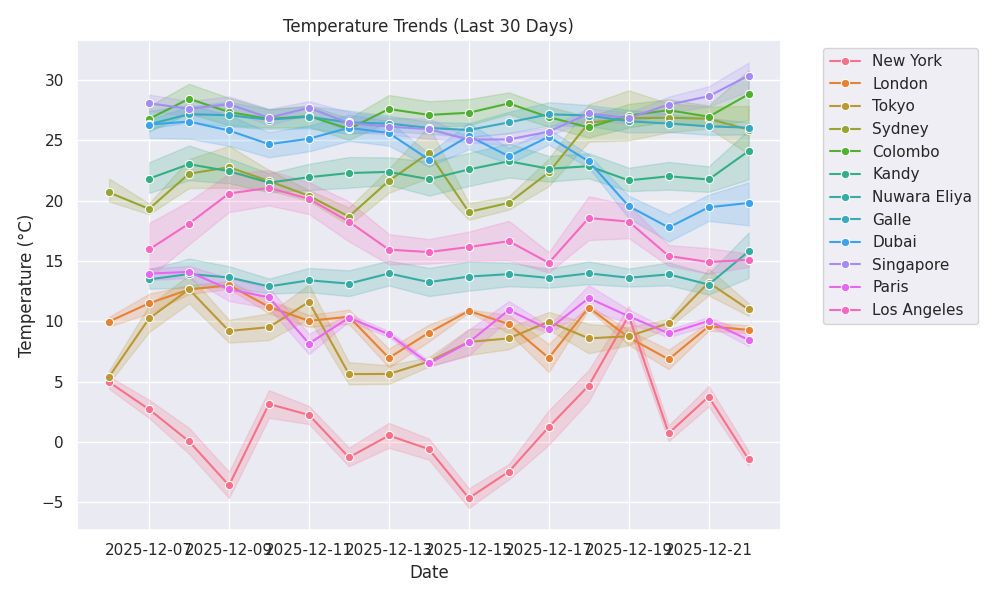
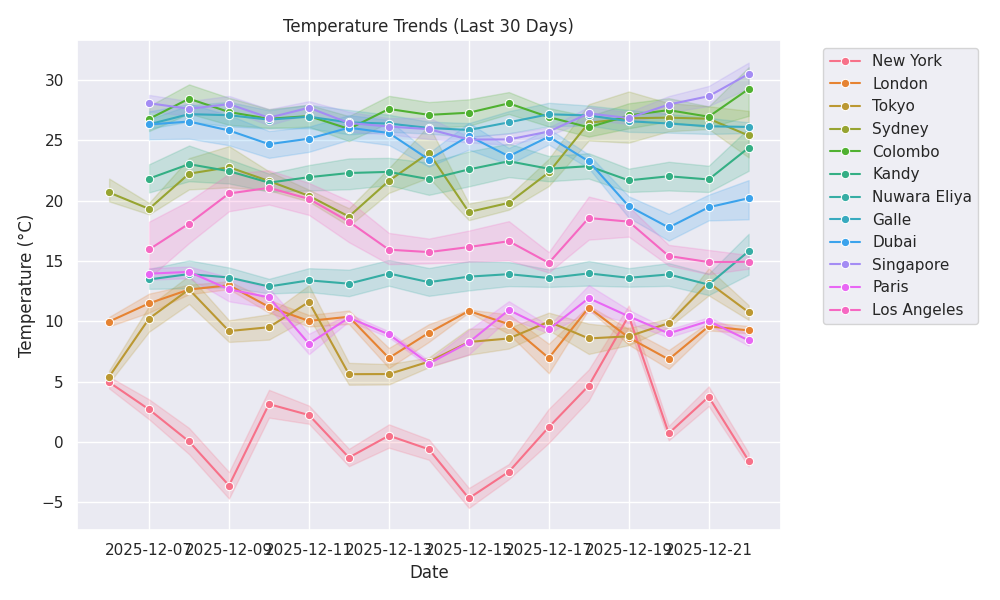
🌦 Weather update: 2025-12-22 09:20

diff --git a/public/index.html b/public/index.html
@@ -11,7 +11,7 @@
     <div class="max-w-6xl mx-auto">
         <header class="mb-8 text-center">
             <h1 class="text-4xl font-bold mb-2">🌍 Global Weather Dashboard</h1>
-            <p class="text-slate-400">Last Updated: 2025-12-22 08:20:34</p>
+            <p class="text-slate-400">Last Updated: 2025-12-22 09:20:44</p>
         </header>
         
         <!-- AI Summary -->
@@ -26,15 +26,15 @@
             <div class="bg-slate-800 p-6 rounded-xl shadow-lg border-t-4 border-blue-500 hover:scale-105 transition-transform">
                 <div class="flex justify-between items-start">
                     <h3 class="text-xl font-bold">Paris</h3>
-                    <span class="text-3xl">☁</span>
+                    <span class="text-3xl">☀</span>
                 </div>
                 <div class="mt-4">
-                    <p class="text-4xl font-bold">7.77°C</p>
-                    <p class="text-slate-400 capitalize">overcast clouds</p>
+                    <p class="text-4xl font-bold">8.18°C</p>
+                    <p class="text-slate-400 capitalize">clear sky</p>
                 </div>
                 <div class="mt-4 text-sm text-slate-500">
                     <p>💧 Humidity: 96%</p>
-                    <p>💨 Wind: 1.54 m/s</p>
+                    <p>💨 Wind: 2.57 m/s</p>
                 </div>
             </div>
             
@@ -44,12 +44,12 @@
                     <span class="text-3xl">☁</span>
                 </div>
                 <div class="mt-4">
-                    <p class="text-4xl font-bold">8.96°C</p>
-                    <p class="text-slate-400 capitalize">broken clouds</p>
+                    <p class="text-4xl font-bold">9.02°C</p>
+                    <p class="text-slate-400 capitalize">overcast clouds</p>
                 </div>
                 <div class="mt-4 text-sm text-slate-500">
                     <p>💧 Humidity: 94%</p>
-                    <p>💨 Wind: 3.6 m/s</p>
+                    <p>💨 Wind: 3.09 m/s</p>
                 </div>
             </div>
             
@@ -59,12 +59,12 @@
                     <span class="text-3xl">☁</span>
                 </div>
                 <div class="mt-4">
-                    <p class="text-4xl font-bold">22.51°C</p>
+                    <p class="text-4xl font-bold">21.95°C</p>
                     <p class="text-slate-400 capitalize">overcast clouds</p>
                 </div>
                 <div class="mt-4 text-sm text-slate-500">
-                    <p>💧 Humidity: 65%</p>
-                    <p>💨 Wind: 7.2 m/s</p>
+                    <p>💧 Humidity: 67%</p>
+                    <p>💨 Wind: 5.66 m/s</p>
                 </div>
             </div>
             
@@ -79,7 +79,7 @@
                 </div>
                 <div class="mt-4 text-sm text-slate-500">
                     <p>💧 Humidity: 60%</p>
-                    <p>💨 Wind: 7.72 m/s</p>
+                    <p>💨 Wind: 7.2 m/s</p>
                 </div>
             </div>
             
@@ -104,12 +104,12 @@
                     <span class="text-3xl">☁</span>
                 </div>
                 <div class="mt-4">
-                    <p class="text-4xl font-bold">17.03°C</p>
+                    <p class="text-4xl font-bold">15.94°C</p>
                     <p class="text-slate-400 capitalize">broken clouds</p>
                 </div>
                 <div class="mt-4 text-sm text-slate-500">
-                    <p>💧 Humidity: 76%</p>
-                    <p>💨 Wind: 2.11 m/s</p>
+                    <p>💧 Humidity: 83%</p>
+                    <p>💨 Wind: 1.93 m/s</p>
                 </div>
             </div>
             
@@ -119,12 +119,12 @@
                     <span class="text-3xl">☁</span>
                 </div>
                 <div class="mt-4">
-                    <p class="text-4xl font-bold">26.1°C</p>
+                    <p class="text-4xl font-bold">26.52°C</p>
                     <p class="text-slate-400 capitalize">overcast clouds</p>
                 </div>
                 <div class="mt-4 text-sm text-slate-500">
-                    <p>💧 Humidity: 85%</p>
-                    <p>💨 Wind: 2.61 m/s</p>
+                    <p>💧 Humidity: 82%</p>
+                    <p>💨 Wind: 2.41 m/s</p>
                 </div>
             </div>
             
@@ -134,12 +134,12 @@
                     <span class="text-3xl">☁</span>
                 </div>
                 <div class="mt-4">
-                    <p class="text-4xl font-bold">26.67°C</p>
+                    <p class="text-4xl font-bold">26.24°C</p>
                     <p class="text-slate-400 capitalize">overcast clouds</p>
                 </div>
                 <div class="mt-4 text-sm text-slate-500">
-                    <p>💧 Humidity: 64%</p>
-                    <p>💨 Wind: 2.87 m/s</p>
+                    <p>💧 Humidity: 66%</p>
+                    <p>💨 Wind: 3.01 m/s</p>
                 </div>
             </div>
             
@@ -153,8 +153,8 @@
                     <p class="text-slate-400 capitalize">overcast clouds</p>
                 </div>
                 <div class="mt-4 text-sm text-slate-500">
-                    <p>💧 Humidity: 58%</p>
-                    <p>💨 Wind: 8.0 m/s</p>
+                    <p>💧 Humidity: 56%</p>
+                    <p>💨 Wind: 8.61 m/s</p>
                 </div>
             </div>
             
@@ -164,12 +164,12 @@
                     <span class="text-3xl">☀</span>
                 </div>
                 <div class="mt-4">
-                    <p class="text-4xl font-bold">-2.19°C</p>
+                    <p class="text-4xl font-bold">-2.21°C</p>
                     <p class="text-slate-400 capitalize">clear sky</p>
                 </div>
                 <div class="mt-4 text-sm text-slate-500">
-                    <p>💧 Humidity: 56%</p>
-                    <p>💨 Wind: 6.17 m/s</p>
+                    <p>💧 Humidity: 58%</p>
+                    <p>💨 Wind: 5.66 m/s</p>
                 </div>
             </div>
             
@@ -179,12 +179,12 @@
                     <span class="text-3xl">☁</span>
                 </div>
                 <div class="mt-4">
-                    <p class="text-4xl font-bold">9.82°C</p>
+                    <p class="text-4xl font-bold">9.25°C</p>
                     <p class="text-slate-400 capitalize">broken clouds</p>
                 </div>
                 <div class="mt-4 text-sm text-slate-500">
-                    <p>💧 Humidity: 44%</p>
-                    <p>💨 Wind: 0.45 m/s</p>
+                    <p>💧 Humidity: 51%</p>
+                    <p>💨 Wind: 4.84 m/s</p>
                 </div>
             </div>
             
@@ -194,11 +194,11 @@
                     <span class="text-3xl">🌫</span>
                 </div>
                 <div class="mt-4">
-                    <p class="text-4xl font-bold">13.9°C</p>
+                    <p class="text-4xl font-bold">13.84°C</p>
                     <p class="text-slate-400 capitalize">mist</p>
                 </div>
                 <div class="mt-4 text-sm text-slate-500">
-                    <p>💧 Humidity: 89%</p>
+                    <p>💧 Humidity: 90%</p>
                     <p>💨 Wind: 1.54 m/s</p>
                 </div>
             </div>

diff --git a/README.md b/README.md
@@ -8,8 +8,8 @@
 
 ---
 
-## ⚡ Live Status (Updated: 2025-12-22 08:20 UTC)
-![Paris](https://img.shields.io/badge/Paris-7.77°C-blue) ![London](https://img.shields.io/badge/London-8.96°C-blue) ![Sydney](https://img.shields.io/badge/Sydney-22.51°C-green) ![Singapore](https://img.shields.io/badge/Singapore-31.4°C-red) ![Dubai](https://img.shields.io/badge/Dubai-22.96°C-green) ![Nuwara Eliya](https://img.shields.io/badge/Nuwara%20Eliya-17.03°C-green) ![Galle](https://img.shields.io/badge/Galle-26.1°C-orange) ![Kandy](https://img.shields.io/badge/Kandy-26.67°C-orange) ![Colombo](https://img.shields.io/badge/Colombo-32.24°C-red) ![New York](https://img.shields.io/badge/New%20York--2.19°C-blue) ![Tokyo](https://img.shields.io/badge/Tokyo-9.82°C-blue) ![Los Angeles](https://img.shields.io/badge/Los%20Angeles-13.9°C-blue) 
+## ⚡ Live Status (Updated: 2025-12-22 09:20 UTC)
+![Paris](https://img.shields.io/badge/Paris-8.18°C-blue) ![London](https://img.shields.io/badge/London-9.02°C-blue) ![Sydney](https://img.shields.io/badge/Sydney-21.95°C-green) ![Singapore](https://img.shields.io/badge/Singapore-31.4°C-red) ![Dubai](https://img.shields.io/badge/Dubai-22.96°C-green) ![Nuwara Eliya](https://img.shields.io/badge/Nuwara%20Eliya-15.94°C-green) ![Galle](https://img.shields.io/badge/Galle-26.52°C-orange) ![Kandy](https://img.shields.io/badge/Kandy-26.24°C-orange) ![Colombo](https://img.shields.io/badge/Colombo-32.24°C-red) ![New York](https://img.shields.io/badge/New%20York--2.21°C-blue) ![Tokyo](https://img.shields.io/badge/Tokyo-9.25°C-blue) ![Los Angeles](https://img.shields.io/badge/Los%20Angeles-13.84°C-blue) 
 
 <div align="center">
   <h3>🏆 Weather Records (Live)</h3>
@@ -20,7 +20,7 @@
     </tr>
     <tr>
         <td align="center"><b>Colombo</b><br>32.24°C</td>
-        <td align="center"><b>New York</b><br>-2.19°C</td>
+        <td align="center"><b>New York</b><br>-2.21°C</td>
     </tr>
   </table>
 </div>
@@ -28,18 +28,18 @@
 ## 📊 Global Overview
 | 🌍 City | 🌡 Temp | 🌤 Condition | 💧 Humidity | 🌬 Wind |
 |---|---|---|---|---|
-| **Paris** | 7.77°C | overcast clouds | 🟦🟦🟦🟦⬜ 96% | 1.54 m/s |
-| **London** | 8.96°C | broken clouds | 🟦🟦🟦🟦⬜ 94% | 3.6 m/s |
-| **Sydney** | 22.51°C | overcast clouds | 🟦🟦🟦⬜⬜ 65% | 7.2 m/s |
-| **Singapore** | 31.4°C | broken clouds | 🟦🟦🟦⬜⬜ 60% | 7.72 m/s |
+| **Paris** | 8.18°C | clear sky | 🟦🟦🟦🟦⬜ 96% | 2.57 m/s |
+| **London** | 9.02°C | overcast clouds | 🟦🟦🟦🟦⬜ 94% | 3.09 m/s |
+| **Sydney** | 21.95°C | overcast clouds | 🟦🟦🟦⬜⬜ 67% | 5.66 m/s |
+| **Singapore** | 31.4°C | broken clouds | 🟦🟦🟦⬜⬜ 60% | 7.2 m/s |
 | **Dubai** | 22.96°C | clear sky | 🟦⬜⬜⬜⬜ 35% | 2.57 m/s |
-| **Nuwara Eliya** | 17.03°C | broken clouds | 🟦🟦🟦⬜⬜ 76% | 2.11 m/s |
-| **Galle** | 26.1°C | overcast clouds | 🟦🟦🟦🟦⬜ 85% | 2.61 m/s |
-| **Kandy** | 26.67°C | overcast clouds | 🟦🟦🟦⬜⬜ 64% | 2.87 m/s |
-| **Colombo** | 32.24°C | overcast clouds | 🟦🟦⬜⬜⬜ 58% | 8.0 m/s |
-| **New York** | -2.19°C | clear sky | 🟦🟦⬜⬜⬜ 56% | 6.17 m/s |
-| **Tokyo** | 9.82°C | broken clouds | 🟦🟦⬜⬜⬜ 44% | 0.45 m/s |
-| **Los Angeles** | 13.9°C | mist | 🟦🟦🟦🟦⬜ 89% | 1.54 m/s |
+| **Nuwara Eliya** | 15.94°C | broken clouds | 🟦🟦🟦🟦⬜ 83% | 1.93 m/s |
+| **Galle** | 26.52°C | overcast clouds | 🟦🟦🟦🟦⬜ 82% | 2.41 m/s |
+| **Kandy** | 26.24°C | overcast clouds | 🟦🟦🟦⬜⬜ 66% | 3.01 m/s |
+| **Colombo** | 32.24°C | overcast clouds | 🟦🟦⬜⬜⬜ 56% | 8.61 m/s |
+| **New York** | -2.21°C | clear sky | 🟦🟦⬜⬜⬜ 58% | 5.66 m/s |
+| **Tokyo** | 9.25°C | broken clouds | 🟦🟦⬜⬜⬜ 51% | 4.84 m/s |
+| **Los Angeles** | 13.84°C | mist | 🟦🟦🟦🟦⬜ 90% | 1.54 m/s |
 
 
 ## 📈 Temperature Trends
